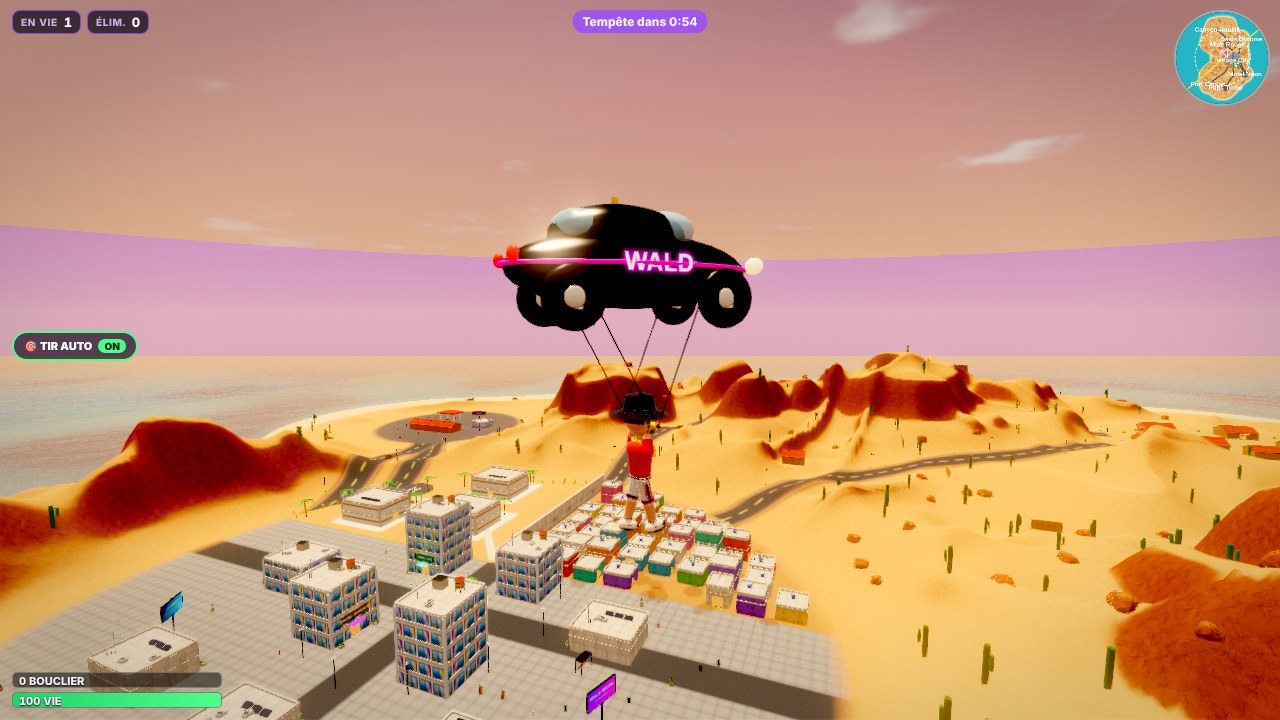
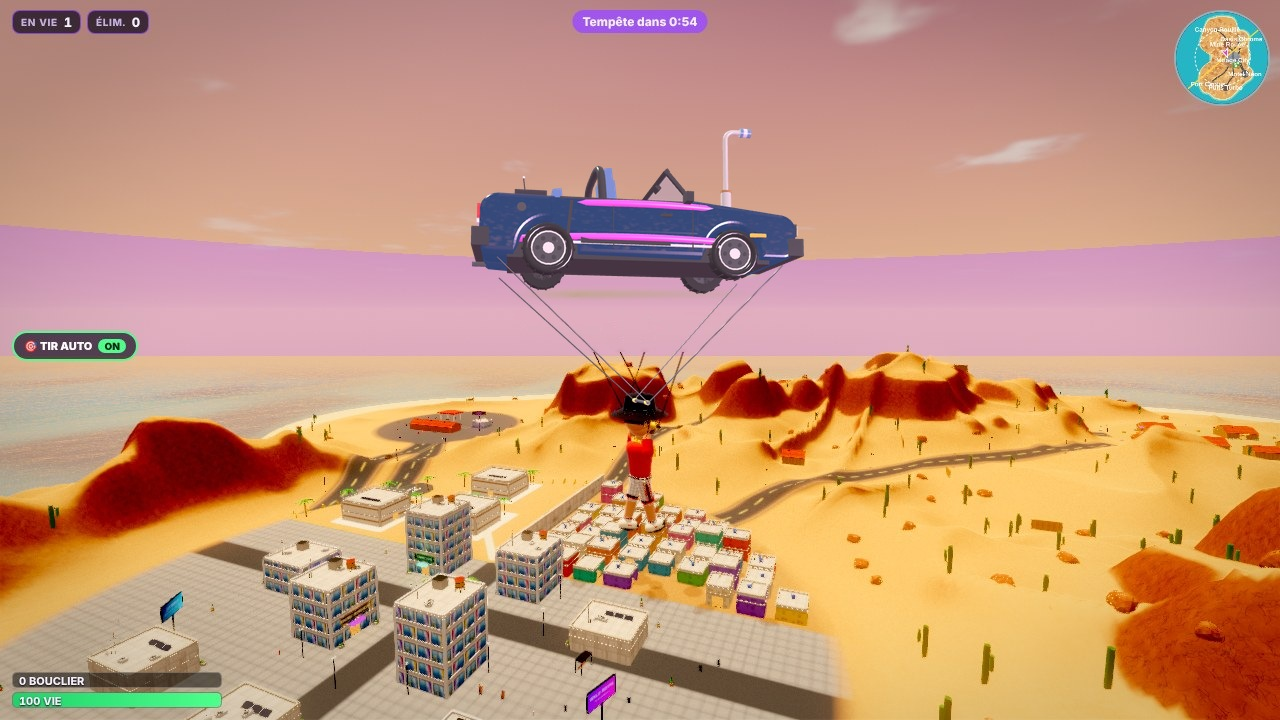
Bannière avec le nouveau planeur Wald Car, Wald Royal iOS sans Survie (cache v49)
Claude-Session: https://claude.ai/code/session_014qj46x89UK9GigraS19ptH

Changed region(s): [[0.3438, 0.1833, 0.625, 0.4889], [0.4688, 0.5194, 0.5312, 0.55]]

diff --git a/wald-royal/index.html b/wald-royal/index.html
@@ -171,13 +171,13 @@ footer a{color:var(--cyan)}
     <div class="dls" id="dls">
       <a class="dl" data-os="android" style="--c:var(--green)" href="https://github.com/waldofficiel/waldofficiel.github.io/releases/download/jeu/WaldGame.apk" download>
         <span class="ic"><svg viewBox="0 0 24 24"><path d="M17.6 9.48l1.84-3.18a.38.38 0 10-.66-.38l-1.86 3.22a11.5 11.5 0 00-9.84 0L5.22 5.92a.38.38 0 10-.66.38L6.4 9.48A10.8 10.8 0 001 18h22a10.8 10.8 0 00-5.4-8.52zM7 15.25a1.25 1.25 0 110-2.5 1.25 1.25 0 010 2.5zm10 0a1.25 1.25 0 110-2.5 1.25 1.25 0 010 2.5z"/></svg></span>
-        <span><strong>Wald Game Android</strong><small>APK · ouvre toujours la dernière version du jeu</small></span><span class="go">↓</span></a>
+        <span><strong>Wald Game · Android</strong><small>APK · ouvre toujours la dernière version du jeu</small></span><span class="go">↓</span></a>
       <a class="dl" data-os="windows" style="--c:var(--cyan)" href="https://github.com/waldofficiel/waldofficiel.github.io/releases/download/jeu/WaldGame-Setup.exe" download>
         <span class="ic"><svg viewBox="0 0 24 24"><path d="M3 5.5l7.5-1v7H3zm8.5-1.15L21 3v8.5h-9.5zM3 12.5h7.5v7L3 18.5zm8.5 0H21V21l-9.5-1.35z"/></svg></span>
-        <span><strong>Wald Game PC Windows</strong><small>.exe · ouvre toujours la dernière version du jeu</small></span><span class="go">↓</span></a>
+        <span><strong>Wald Game · PC</strong><small>.exe · ouvre toujours la dernière version du jeu</small></span><span class="go">↓</span></a>
       <a class="dl" data-os="ios" style="--c:var(--pink)" href="#installer">
         <span class="ic"><svg viewBox="0 0 24 24"><path d="M16.4 12.6c0-2.3 1.9-3.4 2-3.5-1.1-1.6-2.8-1.8-3.4-1.8-1.4-.2-2.8.8-3.5.8s-1.8-.8-3-.8c-1.6 0-3 .9-3.8 2.3-1.6 2.8-.4 7 1.2 9.3.8 1.1 1.7 2.4 2.9 2.3 1.2 0 1.6-.7 3-.7s1.8.7 3 .7c1.3 0 2.1-1.1 2.8-2.3.9-1.3 1.3-2.6 1.3-2.6s-2.5-1-2.5-3.7zM14.1 5.8c.6-.8 1.1-1.9 1-3-.9 0-2.1.6-2.7 1.4-.6.7-1.1 1.8-1 2.9 1 .1 2.1-.5 2.7-1.3z"/></svg></span>
-        <span><strong>iPhone</strong><small>Sur l'écran d'accueil depuis Safari</small></span><span class="go">→</span></a>
+        <span><strong>Wald Royal iOS</strong><small>iPhone · version à part, sans launcher ni Survie</small></span><span class="go">→</span></a>
     </div>
     <p class="note">Gratuit · hors ligne · plein écran · contrôles tactiles et clavier/souris</p>
   </div>
@@ -234,7 +234,7 @@ footer a{color:var(--cyan)}
   <div class="feats">
     <div class="feat" style="--c:var(--pink)"><div class="e">⚔</div><h3>Battle Royale</h3><p>30 joueurs, un bus volant, la tempête violette à éclairs. Classé ou Partie rapide. Deux versions : <b>Construction</b> (pioche, murs, sols, rampes, toits, éditer les murs) ou <b>Zéro Construction</b> (pas de constru, mais la bulle bouclier). Les murs des villes ont la même taille que les tiens : casse-en un, remplace-le par le tien.</p></div>
     <div class="feat" style="--c:var(--cyan)"><div class="e">🎨</div><h3>Créatif</h3><p><b>Mon monde</b> : une immense map où tu fais ce que tu veux, constructions illimitées, armurerie infinie (pompes, AR, PM, sniper, shields). <b>Maps publiques</b> : n°1 <b>MAP 1V1</b> du ✔ Créateur Wald Royal (zone de build fight plate, 200 PV, tout le matos) et n°2 <b>PROPANE</b> du ✔ Wald Royal Creator (mini-map pleine de villes, cache-cache en objets).</p></div>
-    <div class="feat" style="--c:var(--green)"><div class="e">🧟</div><h3>Survie</h3><p>Seul dans un monde de 4 km envahi de zombies. Coupe du bois, casse des pierres et des carcasses, construis ta base, pose ton lit, range tout dans ton sac de 20 places et tes coffres. Sauvegarde automatique.</p></div>
+    <div class="feat" style="--c:var(--green)"><div class="e">🧟</div><h3>Survie</h3><p><b>PC et Android (Wald Game) uniquement.</b> Seul dans un monde de 4 km envahi de zombies. Coupe du bois, casse des pierres et des carcasses, construis ta base, pose ton lit, range tout dans ton sac de 20 places et tes coffres. Sauvegarde automatique.</p></div>
   </div>
 </div></section>
 
@@ -325,7 +325,8 @@ footer a{color:var(--cyan)}
       <li>Lance-le. Si Windows affiche un écran bleu, clique <b>Informations complémentaires</b> puis <b>Exécuter quand même</b>.</li>
       <li>Suis l'installation : un raccourci <b>Wald Game</b> apparaît sur le bureau.</li>
       <li>F11 pour sortir du plein écran, Échap pour la pause.</li></ol></div>
-    <div class="step" style="--c:var(--pink)"><h3>iPhone</h3><ol>
+    <div class="step" style="--c:var(--pink)"><h3>Wald Royal iOS</h3><ol>
+      <li>Version à part pour iPhone : pas de launcher Wald Game, et pas de mode Survie (payant, réservé à PC et Android).</li>
       <li>Apple n'autorise pas les fichiers à installer hors App Store.</li>
       <li>Ouvre <a href="../jeu/"><b>le jeu</b></a> dans <b>Safari</b>.</li>
       <li>Touche Partager ⬆, puis <b>Sur l'écran d'accueil</b>.</li>

diff --git a/jeu/index.html b/jeu/index.html
@@ -482,6 +482,8 @@ function brMap(t) { return BRMAPS[Math.floor((t || Date.now()) / ROT) % BRMAPS.l
 var MODES = { br: 'BATTLE ROYALE', zb: 'ZÉRO CONSTRUCTION', survie: 'SURVIE', creatif: 'CRÉATIF', bf: 'MAP 1V1', prop: 'PROPANE' };   // bf / prop = maps publiques n°1 et n°2 du mode créatif   // bf = map publique n°1 du mode créatif
 var MODE = 'br'; try { var mm = localStorage.getItem('wr_mode'); if (MODES[mm]) MODE = mm; } catch (e) {}
 try { var mo = (location.search.match(/[?&]mode=(\w+)/) || [])[1]; if (MODES[mo]) MODE = mo; } catch (e) {}
+var IOSW = /iPhone|iPad|iPod/.test(navigator.userAgent) || (/Macintosh/.test(navigator.userAgent) && navigator.maxTouchPoints > 1);   // Wald Royal iOS (web) : pas de Survie (payant, PC + Android)
+if (IOSW && MODE === 'survie') MODE = 'br';
 var MAP = MODE === 'prop' ? 'propane' : MODE === 'survie' || MODE === 'creatif' || MODE === 'bf' ? 'survie' : brMap(); try { var mq = (location.search.match(/[?&]map=(\w+)/) || [])[1]; if (MAPS[mq]) { MAP = mq; if (mq === 'survie' && MODE !== 'creatif' && MODE !== 'bf') MODE = 'survie'; if (mq === 'propane') MODE = 'prop'; else if (mq !== 'survie' && MODE !== 'zb') MODE = 'br'; } } catch (e) {}
 var ARENA = null; var DES = MAP === 'desert', SURV = MAP === 'survie', PROPM = MAP === 'propane', CREA = MODE === 'creatif' || MODE === 'bf' || MODE === 'prop', BF = MODE === 'bf', ZB = MODE === 'zb', BUILD = !ZB, MAPNAME = MAPS[MAP];
 var NPL = SURV || PROPM ? 1 : 30, ISL = SURV ? 1720 : PROPM ? 240 : 420, HALF = SURV ? 2000 : PROPM ? 300 : 500;   // PROPANE : mini-map ~3x plus petite   // survie : monde 4x plus grand (4 km)
@@ -2623,7 +2625,8 @@ if (SURV && !CREA && SV && SV.hasSave()) (function () { var d = document.createE
 var MGRP = MODE === 'br' || MODE === 'zb' ? 'br' : MODE === 'survie' ? 'survie' : 'creatif';   // menu JOUER : Battle Royale (constru / zéro constru) · Créatif (mon monde / maps publiques) · Survie
 function pickMode(nm, el) { if (nm === MODE) return; var nmap = nm === 'prop' ? 'propane' : nm === 'survie' || nm === 'creatif' || nm === 'bf' ? 'survie' : brMap();
   if (nmap === MAP && !SURV) { try { localStorage.setItem('wr_mode', nm); } catch (e) {} location.reload(); return; } if (el) el.classList.add('load'); goMap(nmap, nm); }
-function mgrpDraw() { document.querySelectorAll('#mgrp [data-g]').forEach(function (b) { b.classList.toggle('on', b.dataset.g === MGRP); }); $('subBR').hidden = MGRP !== 'br'; $('subCR').hidden = MGRP !== 'creatif';
+function mgrpDraw() { if (IOSW) { var sb0 = document.querySelector('#mgrp [data-g=survie]'); if (sb0) sb0.remove(); }
+document.querySelectorAll('#mgrp [data-g]').forEach(function (b) { b.classList.toggle('on', b.dataset.g === MGRP); }); $('subBR').hidden = MGRP !== 'br'; $('subCR').hidden = MGRP !== 'creatif';
   document.querySelectorAll('#subBR [data-mode], #subCR [data-mode]').forEach(function (b) { b.classList.toggle('on', b.dataset.mode === MODE); }); }
 document.querySelectorAll('#mgrp [data-g]').forEach(function (b) { b.addEventListener('click', function () { MGRP = b.dataset.g; mgrpDraw(); if (MGRP === 'survie') pickMode('survie', b); else if (MGRP === 'br' && MODE !== 'br' && MODE !== 'zb') pickMode('br', b); }); });
 document.querySelectorAll('#subBR [data-mode], #subCR [data-mode]').forEach(function (b) { b.addEventListener('click', function () { pickMode(b.dataset.mode, b); }); });

diff --git a/jeu/sw.js b/jeu/sw.js
@@ -1,5 +1,5 @@
 // Cache hors-ligne du jeu Wald Royale (3D)
-var V = 'wald-royale-3d-v48';
+var V = 'wald-royale-3d-v49';
 var FILES = ['./', 'index.html', 'manifest.webmanifest', 'three.min.js', 'polo3d.js', 'skins.js', 'anim.js', 'nature.js', 'weapons3d.js', 'bus3d.js', 'loot3d.js', 'city.js', 'GLTFLoader.js', 'interiors.js', 'optimize.js', 'props.js', 'trees.js', 'zombies.js', 'survie.js', 'net.js', 'signs.js', 'polo3d.html', 'avatar.jpg', 'logo.jpg', 'sons/polo.mp3', 'sons/wald_off.mp3', 'icons/icon-192.png', 'icons/icon-512.png', 'icons/icon-180.png'];
 self.addEventListener('install', function (e) { e.waitUntil(caches.open(V).then(function (c) { return c.addAll(FILES); }).then(function () { return self.skipWaiting(); })); });
 self.addEventListener('activate', function (e) { e.waitUntil(caches.keys().then(function (ks) { return Promise.all(ks.filter(function (k) { return k !== V; }).map(function (k) { return caches.delete(k); })); }).then(function () { return self.clients.claim(); })); });

diff --git a/index.html b/index.html
@@ -235,7 +235,7 @@ footer b{font-family:var(--display);font-weight:400;color:var(--fg)}
       <img src="wald-royal/img/place.jpg" alt="" loading="lazy" class="bgshot">
       <span class="mtop"><img src="wald-royal/img/waldgame.png" alt="Logo Wald Game" loading="lazy"><span><strong>WALD GAME</strong><small>Avec Wald Royal : Battle Royale · Créatif · Survie · 1v1 entre potes</small></span></span>
       <span class="mcta">Installer Wald Game →</span>
-      <span class="mos">Android · PC Windows</span>
+      <span class="mos">Wald Game : Android · PC — iPhone : Wald Royal iOS</span>
     </a>
     <div class="gshots">
       <a href="wald-royal/#modes"><img src="wald-royal/img/creatif.jpg" alt="Le mode Créatif et la map 1v1 entre potes" loading="lazy"><span>Mode Créatif</span></a>

diff --git a/CLAUDE.md b/CLAUDE.md
@@ -359,5 +359,9 @@ cd /home/claude/wo && (python3 -m http.server 8765 >/dev/null 2>&1 &); sleep 1
 - Profil partagé : toutes les clés localStorage `wr*` passent par `profile.json` de l'appli (launcher importe au chargement, exporte avant JOUER ; le jeu installé importe au démarrage (script en tête) et exporte toutes les 15 s + en quittant, `window.WGsave`).
 - Le workflow d'applis ne se lance plus que sur `app/**` (le jeu se met à jour via le site, sans rebuild).
 
+## Image du planeur, Wald Royal iOS (cache v49)
+- `wald-royal/img/capitale.jpg` (bannière du launcher, galerie, bande-annonce) : l'ancien planeur noir « WALD » est remplacé par le planeur Wald Car Gonflable actuel (rendu 3D collé sur la capture).
+- iPhone/iPad = « Wald Royal iOS » (version web, sans launcher) : pas de mode Survie (`IOSW` dans jeu/index.html : bouton retiré, `?mode=survie` → br). Survie = payant, PC + Android seulement (site mis à jour).
+
 ## À REVOIR (rappeler à l'utilisateur)
 - (fait en v37) 3 nouvelles armes, anciens modèles provisoires refaits : `patate` Lance-patate (explosion 3 m), `roquette` Lance-roquette (1 roquette, explosion 6 m, casse les murs), `laser` Lanceur laser (rafale rose). Stats dans `WEAPONS`, modèles `B.patate/B.roquette/B.laser` dans weapons3d.js. Cache v36.
